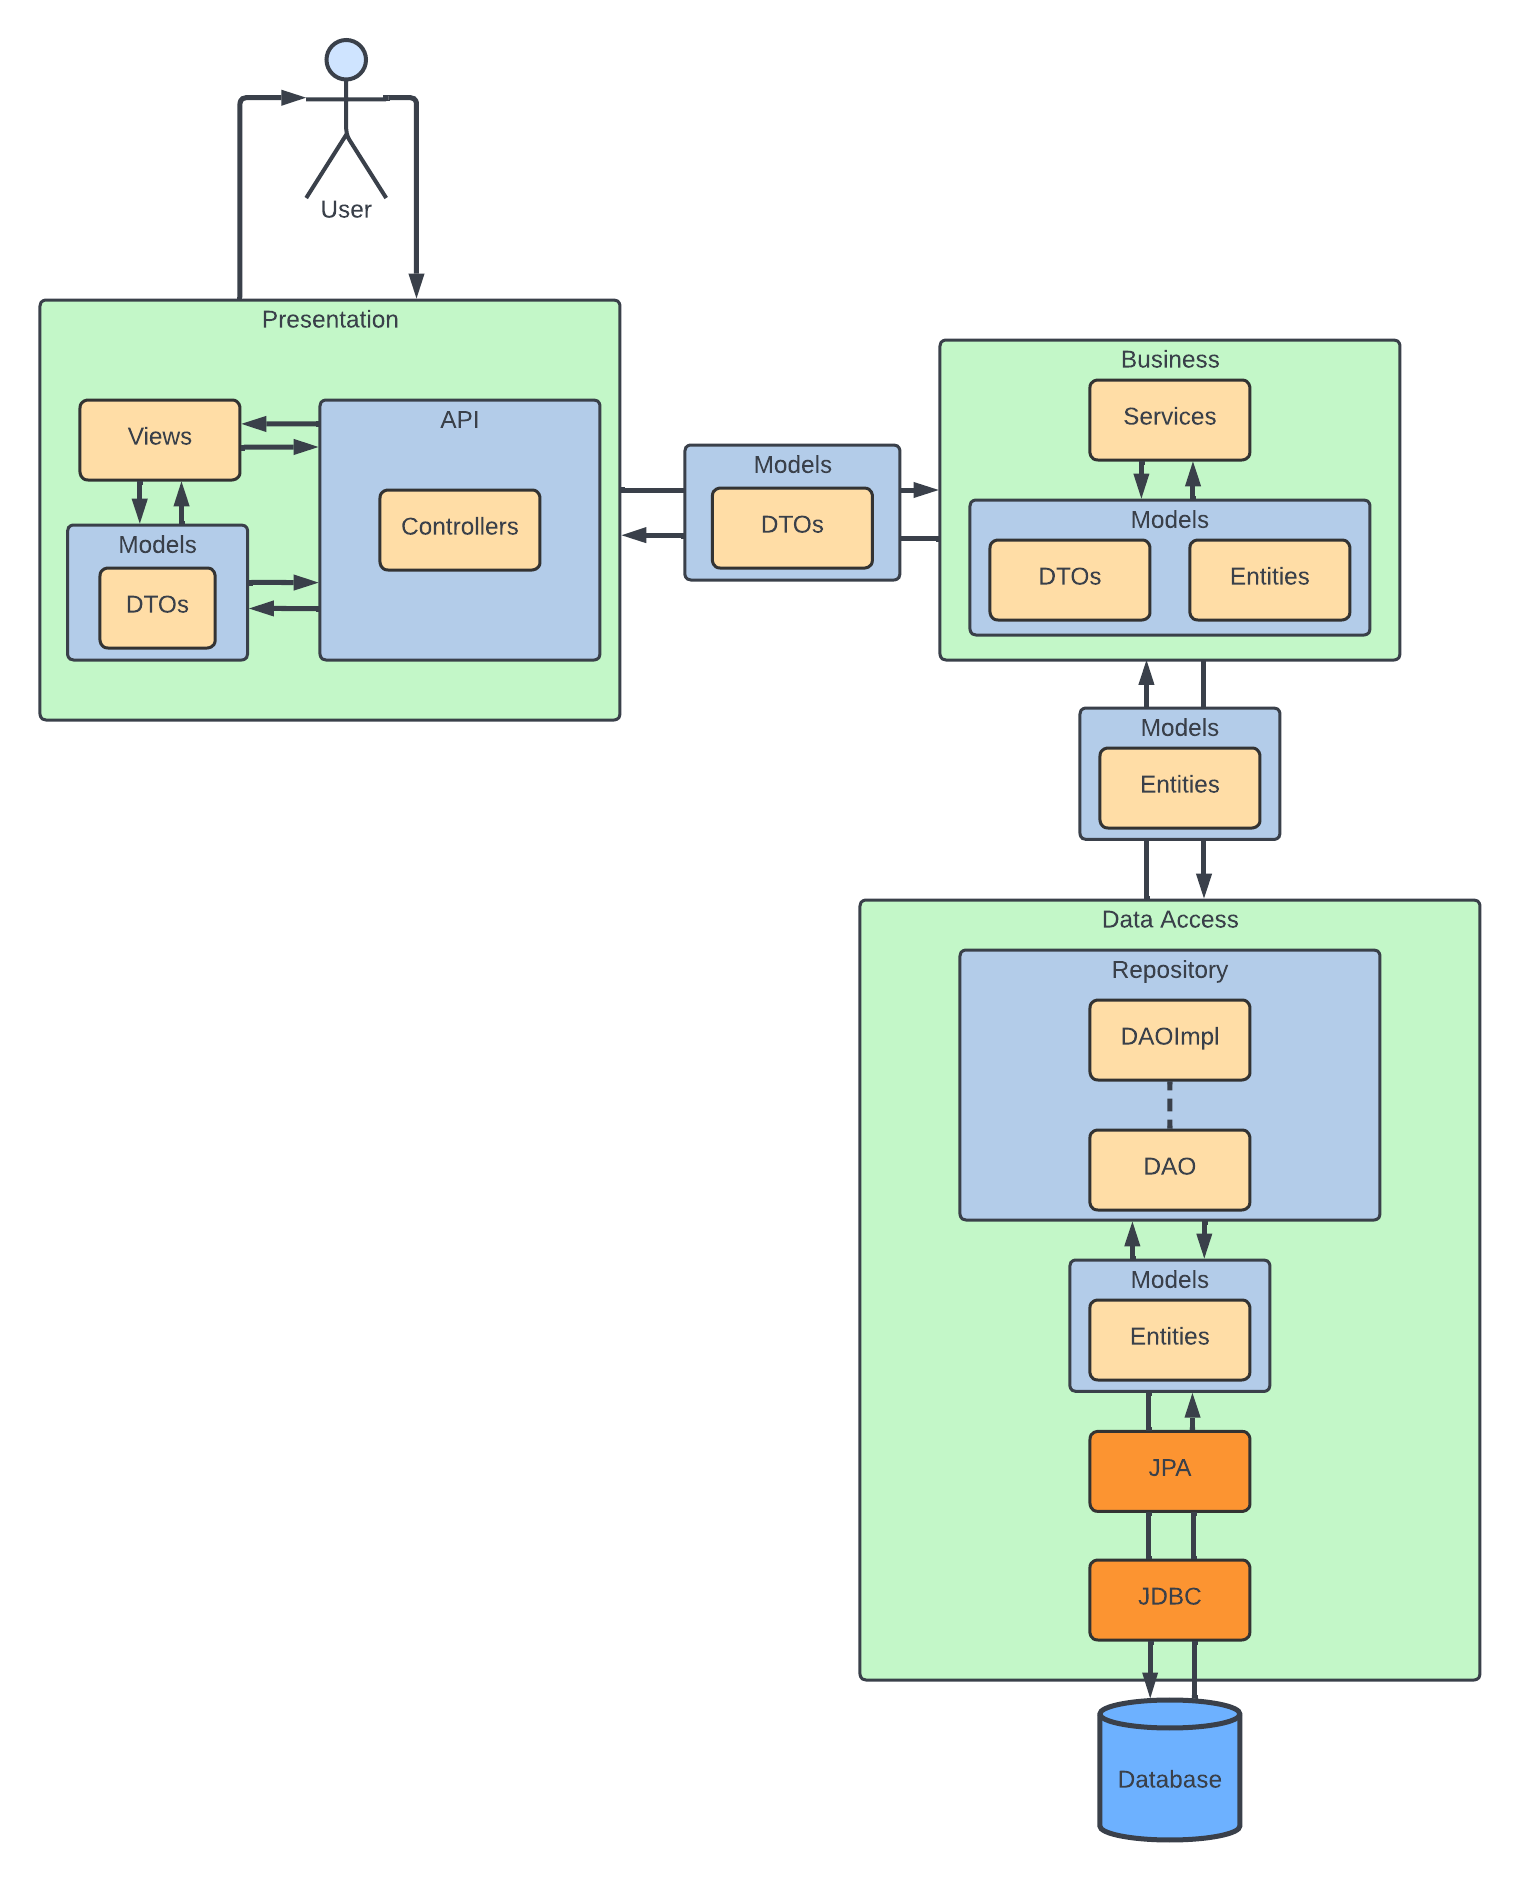
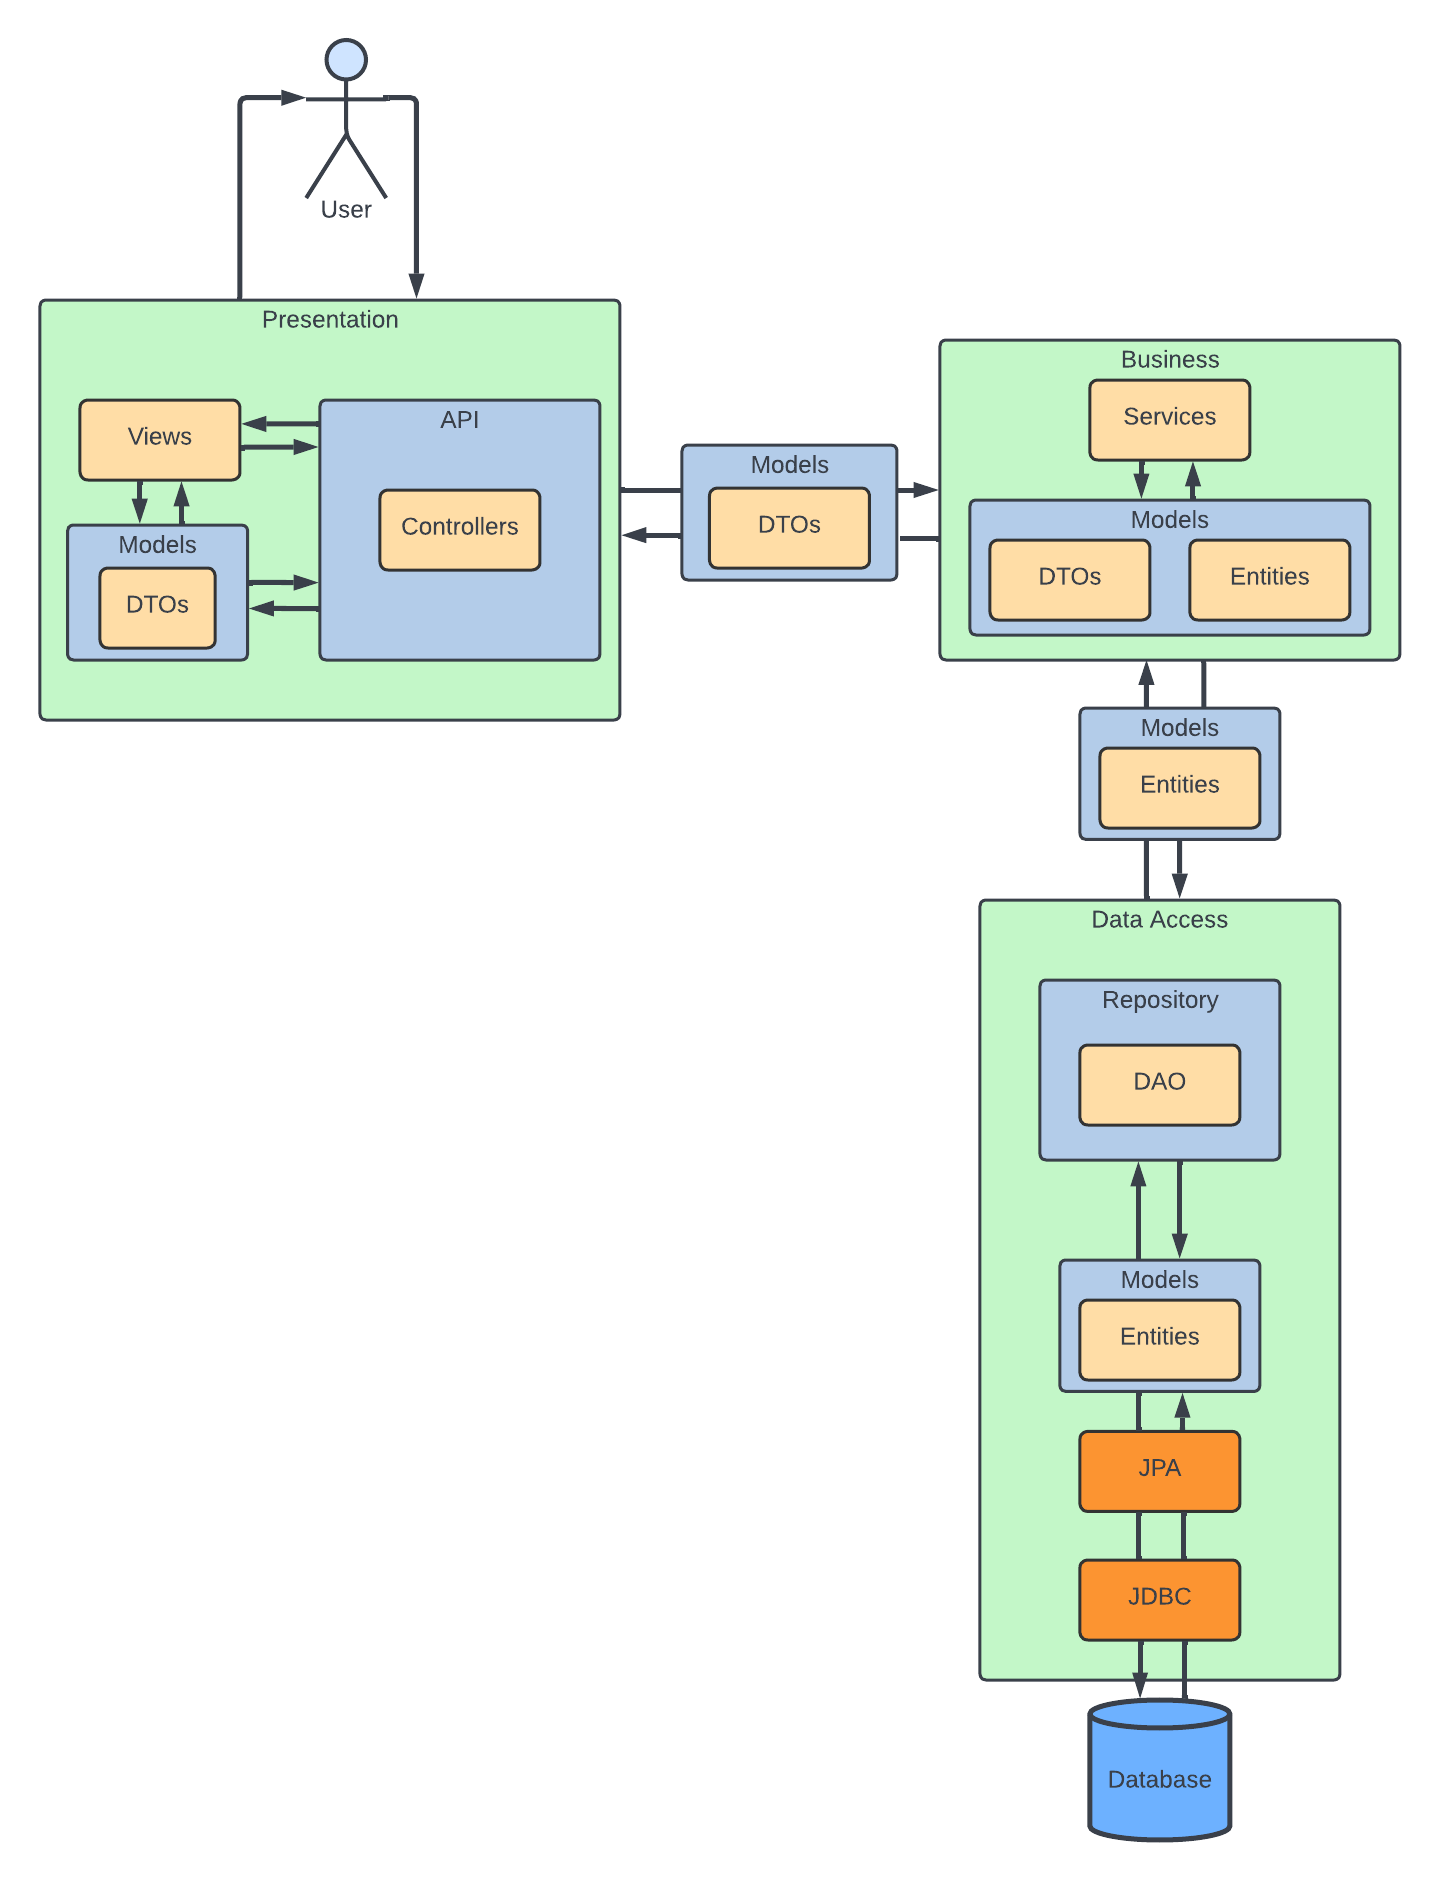
ER diagram added to index.md & architecture updated

Changed region(s): [[0.0, 0.1543, 1.0, 0.9872], [0.1562, 0.0, 0.3125, 0.1851], [0.2812, 0.216, 0.3125, 0.2468]]

diff --git a/docs/index.md b/docs/index.md
@@ -50,7 +50,14 @@ mvn clean compile exec:java
 
 ---
 
-## Software Architecture
+
+# ER Diagram
+
+![architecture](docs/ER.png)
+
+---
+
+# Software Architecture
 
 ![architecture](docs/architecture.png)
 
